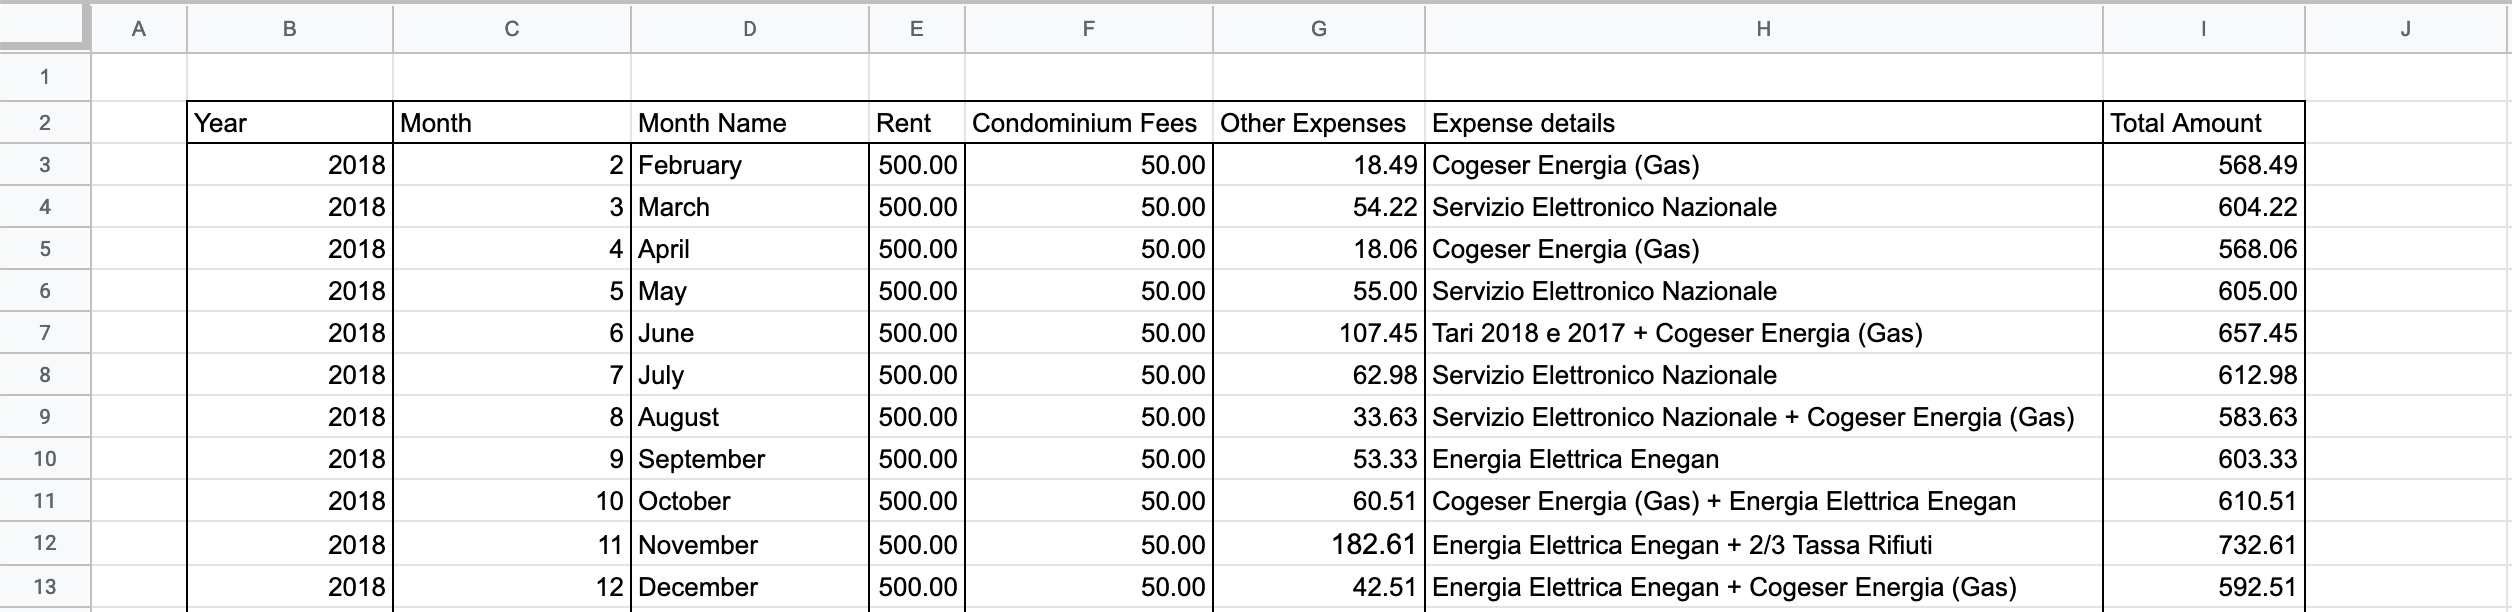
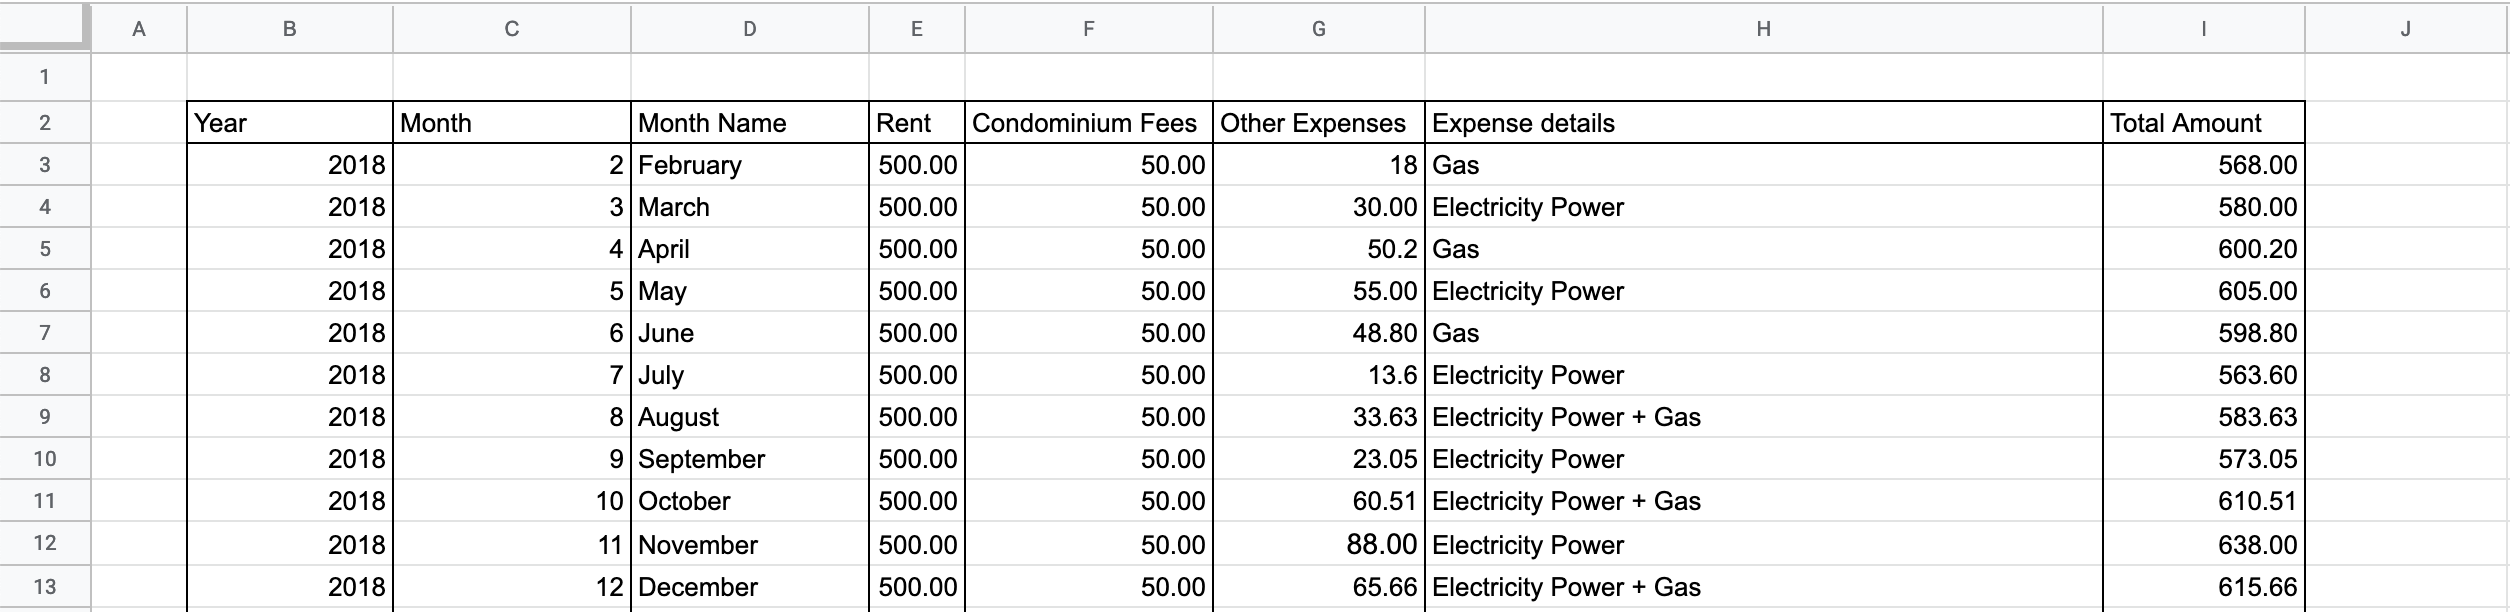
Fixed and modified Google App Script Post

diff --git a/_posts/2019-02-27-i-m-a-developer-i-love-automation.md b/_posts/2019-02-27-i-m-a-developer-i-love-automation.md
@@ -2,7 +2,7 @@
 layout: post
 title: "I'm a developer, I love automation"
 image: images/post-images/automation/automation.gif
-excerpt: "Have you ever repeat same operation over and over? In this blog post we'll see how automate some task to extract information from some mails with Google App Script and some APIs."
+excerpt: "Have you ever repeat the same operation over and over? In this blog post, we'll see how to automate some task to extract information from some emails with Google App Script and some APIs."
 tags:
   - AppScript
   - Google
@@ -10,36 +10,36 @@ tags:
   - 🇺🇸
 ---
 
-As lot of person in these days I also live in rented house.  
-Every month I receive a mail with attached the fees about the gas or the electricity power for the apartment where I live, and every time I do these operations:
-1. label it with a specific name with the corresponding year and month.
-2. save the attachments in a folder on Dropbox
-3. insert that information in a sheet on Google Drive formatted as that.  
-(The value of fees and rent are fake, I don' like to share how much I pay 😀 )  
+In these days a lot of people live in a rented house and I'm one of them.  
+Every month I receive an email with attached the fees about gas or electricity power for the apartment where I live, and every time I do these operations:
+1. label it with a specific name with the corresponding year and month;
+2. save the attachments in a Dropbox folder;
+3. insert that information in a Google Drive sheet on a table like the following:  
+(The value of fees and rent are fake 😜 )  
 
 <br/>
 <img src="{{ site.url }}/images/post-images/automation/SheetExpenses.png" >
 
-I've done that several times.  
+I've done these operations several times.  
 
 
-As all <del>good</del> developer **I'm lazy**.  
+As all <del>good</del> developer, **I'm lazy**.  
 
 
 <img src="{{ site.url }}/images/post-images/automation/homer.gif" >
 
 
-So I asked to myself: "Why I have to do the same operation manually every month?   
-Can I automate this operation?".
+So I asked myself: "Why I have to do the same operation manually every month?   
+Can I automate this stuff?".
 
-In the first step I tried with IFTTT, but is not so powerful to do what I had in mind (or maybe I simply don't know it much 😅).
+In the first step, I tried with IFTTT, but is not so powerful to do what I had in mind (or maybe I simply don't know it much 😅).
 
-After some research I tried with [Google App Script](https://script.google.com/home).  
-Basically it is a Google's service that allow to write application in a javascript with the possibility to interact with the API of the Google Services like GMail and Drive.
+After some research, I tried with [Google App Script](https://script.google.com/home).  
+Basically, it is a service that allows writing an application in Javascript with the possibility to use Google Service's API like GMail and Drive.
 
 <img style="width: 150px;" src="{{ site.url }}/images/post-images/automation/google-app-script.png" >
 
-With it I've done this small experiment:
+Using Google App Script I've done this small experiment:
 ```javascript
 function printMessagesInfo(messages){
   messages.forEach(function(message){
@@ -61,18 +61,16 @@ function main() {
 }
 
 ```
-To test the App go to "Run" and than select the function to execute (in my case "main"). 
-After that we can see the result clicking on "View/Log".
 
-With this few line of code **I was able to search into all my Gmail account for the <del>mails</del> Threads that have a specific label**.  
-In order to do that is necessary to allow the permission to the application to the Gmail API.
 
+With these few lines of code **I'm able to search into all my Gmail account for the <del>mails</del> Threads that have a specific label**.  
+In order to do that, is necessary to give to the application the access to the Gmail API.
 
 
 
-Ok Great it seams promising.  
-Now le'ts try do do something useful,  
-like the first task that I mentioned before.
+
+Ok Great! It seems promising.  
+Now let's try to do something more useful, like the first task that I mentioned before.
 
 ```javascript
 function getYearAndMonthStringFromDate(date){  
@@ -117,14 +115,14 @@ function main() {
 
 ```
 
-Lot of staff in there, but still pretty simple.  
+A lot of stuff in there, but still pretty simple.  
 
-Let me do just a few comment.  
-I added a flag [<sup>1</sup>] (to be precise the label `Processed by Google Script`) that allow to identify if a thead it is been already processed in order to avoid useless elaboration.    
-In the function `getYearAndMonthStringFromDate` I did a  month +1 because for example the fee on January should be paid in February [<sup>2</sup>].  
-Create a label like `Home staff/2019-02` means create a hierarchy. So `2019` is a sublabel of `Home staff` [<sup>3</sup>].
+Let me do just a few comments.  
+I added a flag [<sup>1</sup>] (to be precise the label `Processed by Google Script`) that allow identifying if a thread it is been already processed in order to avoid useless elaboration.    
+In the function `getYearAndMonthStringFromDate` I did a  month +1 because, for example the fee on January should be paid in February [<sup>2</sup>].  
+In the code I create a label like `Home staff/2019-02` to create a hierarchy, so `2019-02` is a sublabel of `Home staff` [<sup>3</sup>].
 
-Well, with this code now I'm able to do the **first step of my checklist**.  
+Well, with this code I'm able to do the **first step of my checklist** 
 **<del>1. label it with a specific name with the corresponding year and month.</del>**
 
 Now the goal is to do the second step!
@@ -163,12 +161,12 @@ function main() {
 }
 
 ```
-Nothing particular here the code is pretty straightforward.
+Nothing particular here; the code is pretty straightforward.
 
 
-To really upload the files on Dropbox I lean on the amazing Dropbox API and in particular I used this one: [file upload](https://www.dropbox.com/developers/documentation/http/documentation#files-upload).
+To really upload the files on Dropbox, I lean on the amazing Dropbox API and, in particular, I used this one: [file upload](https://www.dropbox.com/developers/documentation/http/documentation#files-upload).
 
-Here's the piece of code that call that API:
+Here's the piece of code that calls the API:
 
 ```javascript
 function uploadFileToDropbox(file, path) {
@@ -205,24 +203,24 @@ function uploadFileToDropbox(file, path) {
 Dropbox Access Token can be created from this [page](https://www.dropbox.com/developers/apps) (and it shouldn't be shared).
 
 Now we can delete the second point as well:  
-**<del>2. save the attachments in a folder on Dropbox</del>**
+**<del>2. save the attachments in a Dropbox folder</del>**
 
 Ok good, we miss the last level  😀.
 
-The hard part here is not insert the information in a Google sheet, but rather read the information.  
-The file that I receive through email is/are a pdf hence is not easy read it like a normal text file.
+At this point, the hard part is not to insert the information in a Google sheet, but rather read the information.  
+The file that I receive through email is a pdf, hence is not easy to read it like a normal text file.
 
 
 <img src="{{ site.url }}/images/post-images/automation/pdf.jpg" >
 
-After some research I found an amazing script:  [pdfToText](https://stackoverflow.com/a/26623198/5945360).  
-That script basically use OCR feature offered by Google to convert a written documento to a text.
-To activating this capability we need to enable the Drive API under  `Resources > Advanced Google Services`.  
+After some research, I found an amazing script:  [pdfToText](https://stackoverflow.com/a/26623198/5945360).  
+That script uses OCR feature, offered by Google, to convert a written document in a text.
+To activating this capability, we need to enable the Drive API under  `Resources > Advanced Google Services`.  
 
 <img style="width: 60%;" src="{{ site.url }}/images/post-images/automation/DriveAPI.png" >
 
 
-Using that I was abel to get from a pdf like this: 
+Using that, I was able to get from a pdf like this: 
 
 <img style="height: 400px;" src="{{ site.url }}/images/post-images/automation/fattura.png" >
 
@@ -231,8 +229,8 @@ a text like this:
 ""RIEPILOGO BOLLETTA Codice Cliente ********** Codice Fiscale *************************** *** * ** * ****** CONSUMI Totale Energia kWh Elettrica: 70 ••••••...""
 ```
 
-From that, assuming that the format of the pdf remains stable through the months with some text parsing we cat get all the meaningful info that we want.  
-In my case from each invoice I get the following info:
+From that, assuming that the format of the pdf remains stable through the months with some text parsing, we can get all the info that we want.  
+In my case, from each invoice, I get the following info:
 ```javascript
 var invoceData = {
   company: "Enegan",
@@ -241,7 +239,7 @@ var invoceData = {
 }
 ```
 
-The info from each invoice are combined together and returned by `processesThread`.
+The info from each invoice is combined together and returned by `processesThread`.
 
 
 ```javascript
@@ -285,8 +283,8 @@ function main() {
 
 ```
 
-At this point I have all the data that I need to fill up my sheet.
-As before for take advantage of the Sheets API is necessary to give our authorization to the app. 
+At this point, I have all the data that I need to fill up my sheet.
+As before, for taking advantage of the Sheets API, is necessary to give our authorization to the app. 
 
 And this is the final piece of code that I'll show:
 
@@ -334,21 +332,21 @@ function fillSheetWithInfo(year, month, invoce){
 }
 
 ```
-Here the most difficult thing was calculate the right row where to write the content.  
-To do that I calculate the distance in terms of number of months between the first date in my table (so the 2018-02) to the date for the new entry.  
-When the row is known is possible to write down all the info e.g. the rent, the condominium fees, the total sum, a small description for the type of expense and so on.
+Here the most difficult thing was to calculate the right row where write the content.  
+To do that, I calculate the distance in terms of number of months between the first date in my table (so the 2018-02), to the date of the new entry.  
+When the row is known, is possible to write down all the info: the rent, the condominium fees, the total sum, a small description of the type of expense and so on.
 
-Finally we have automate also the last point.  
-**<del>3. insert that information in a sheet on Google Drive formatted as that.</del>**
+Finally, we have automated also the last point.  
+**<del>3. insert that information in a sheet on Google Drive formatted like that.</del>**
 
   
 
 Now I have created a script that can do the operation that I did manually.  
 **But still I have to run this script manually!**
 
-So solve this issue I used a "Trigger", this allow to execute my function under some condition.
-Is it possible to set a trigger from [G Suite Developer Hub](https://script.google.com/home/).
-In my case was enough to set an execution one time for month.
+So to solve this issue I used a "Trigger"; this allows to execute my function under some condition.
+It is possible to set a trigger from [G Suite Developer Hub](https://script.google.com/home/).
+In my case was enough to set an execution one time for a month.
 
 And... DONE!!!!  
 
@@ -358,11 +356,11 @@ And... DONE!!!!
 
 ## Conclusion
 Google App Script gives me a level of freedom that other preconfigured services can't have.
-It was a great solution for my use case.
-For sure the ability to write code had give me the highest degree of flexibility and it's a great plus! 
+It's a great solution for my use case.
+For sure, the ability to write code is what we, as developers, love and it gives the highest degree of flexibility: it's a great plus! 
 
-The part that I didn't like was the "IDE", if we can call it. Write code on the web page wasn't comfortable at all, compared with VSCode or other tools.  
-Another negative part wat that is not possible to use source control. Is possible to create different version of our code but is totally different to what we are used to do with git for example.   
+The part that I didn't like was the "IDE", if we can call it. Writing code on a web page wasn't comfortable at all, compared with VSCode or other tools.  
+Another negative part was the impossibility to use source control. It is possible to create different versions of our code but is totally different from what we are used to doing with git, for example.   
 
 These problems can be solved using [CLASP](https://github.com/google/clasp).  
 Indeed you can find all the code on my [GitHub Repo](https://github.com/gixlg/GASP-Monthly-House-Fee-Calculator).
